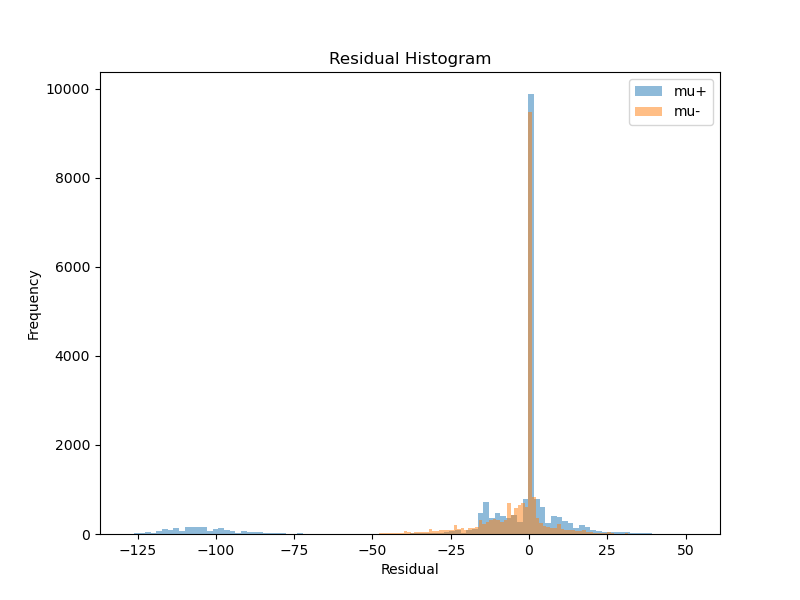
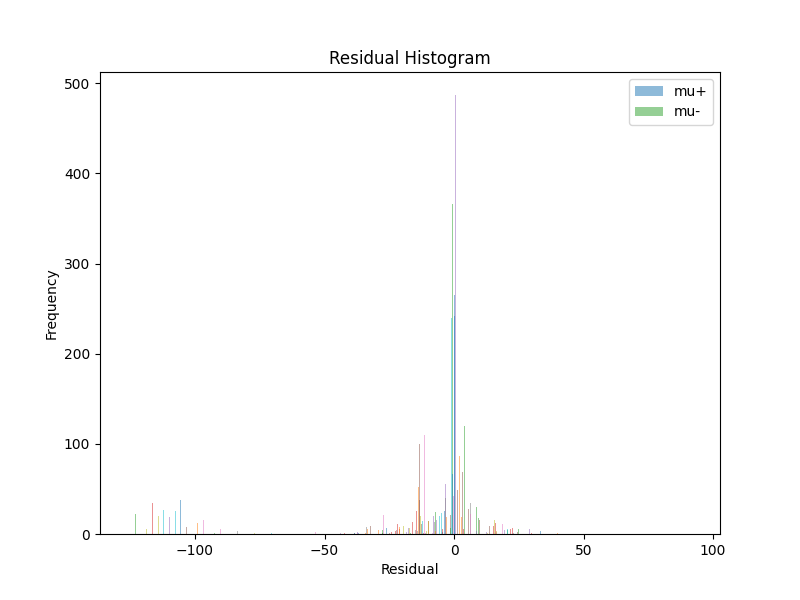
Fixed evaluate.py to print per slot residual

diff --git a/QTracker_prod/evaluate.py b/QTracker_prod/evaluate.py
@@ -25,11 +25,14 @@ def plot_res_histogram(model_path, y_true, y_pred):
     y_muPlus_pred = tf.cast(tf.argmax(tf.squeeze(y_muPlus_pred, axis=1), axis=-1), tf.float32)
     y_muMinus_pred = tf.cast(tf.argmax(tf.squeeze(y_muMinus_pred, axis=1), axis=-1), tf.float32)
 
-    res_plus = y_muPlus_pred - y_muPlus_true        # (num_events, num_detectors)
-    res_minus = y_muMinus_pred - y_muMinus_true
+    res_plus = (y_muPlus_pred - y_muPlus_true)       # (num_events, num_detectors)
+    res_minus = (y_muMinus_pred - y_muMinus_true)
 
-    res_plus = res_plus.numpy().flatten()
-    res_minus = res_minus.numpy().flatten()
+    res_plus = res_plus.numpy()
+    res_minus = res_minus.numpy()
+
+    all_res_plus = res_plus.flatten()
+    all_res_minus = res_minus.flatten()
 
     plt.figure(figsize=(8, 6))
     plt.hist(res_plus, bins=100, alpha=0.5, label='mu+')
@@ -44,9 +47,53 @@ def plot_res_histogram(model_path, y_true, y_pred):
     plt.savefig(plot_path)
     plt.show()
 
-    mean_plus, mean_minus = np.mean(res_plus), np.mean(res_minus)
-    std_plus, std_minus = np.std(res_plus), np.std(res_minus)
-    return mean_plus, mean_minus, std_plus, std_minus
+    num_layers = res_plus.shape[1]
+    per_slot_stats = []
+
+    for layer_idx in range(num_layers):
+        plus_residuals  = res_plus[:, layer_idx] 
+        minus_residuals = res_minus[:, layer_idx] 
+
+        mean_plus  = np.mean(plus_residuals)
+        std_plus   = np.std(plus_residuals)
+        mean_minus = np.mean(minus_residuals)
+        std_minus  = np.std(minus_residuals)
+
+        per_slot_stats.append((
+            layer_idx+1,    
+            mean_plus, std_plus,
+            mean_minus, std_minus
+        ))
+
+    print("\nPer-slot residual statistics:")
+    print(" layer |   μ⁺ mean   |  μ⁺ σ   |  μ- mean   |  μ- σ")
+    print("--------------------------------------------------")
+    for (layer, m_p, s_p, m_m, s_m) in per_slot_stats:
+        print(f" {layer:2d}   |   {m_p:+6.3f}  | {s_p:6.3f} |   {m_m:+6.3f}  | {s_m:6.3f}")
+
+    layers      = np.arange(1, num_layers+1)
+    mu_plus_means  = np.array([x[1] for x in per_slot_stats])
+    mu_plus_stds   = np.array([x[2] for x in per_slot_stats])
+    mu_minus_means = np.array([x[3] for x in per_slot_stats])
+    mu_minus_stds  = np.array([x[4] for x in per_slot_stats])
+
+    plt.figure(figsize=(10, 4))
+    plt.errorbar(layers, mu_plus_means,  yerr=mu_plus_stds,  fmt='o-', label='μ⁺ mean±σ',  capsize=2)
+    plt.errorbar(layers, mu_minus_means, yerr=mu_minus_stds, fmt='s-', label='μ- mean±σ', capsize=2)
+    plt.xlabel("Detector Layer (1 … 62)")
+    plt.ylabel("Residual (predicted − true)")
+    plt.title("Per-layer Residual: mean ± σ")
+    plt.axhline(0, color='black', lw=1, linestyle='--')
+    plt.legend()
+    plt.tight_layout()
+    plt.savefig(os.path.join(os.path.dirname(__file__), "plots", "per_layer_residuals.png"))
+    plt.show()
+
+    global_mean_plus  = np.mean(all_res_plus)  
+    global_std_plus   = np.std(all_res_plus)  
+    global_mean_minus = np.mean(all_res_minus) 
+    global_std_minus  = np.std(all_res_minus)  
+    return (global_mean_plus, global_std_plus, global_mean_minus, global_std_minus)
 
 
 def evaluate_model(root_file, model_path):
@@ -56,6 +103,7 @@ def evaluate_model(root_file, model_path):
         X, y_muPlus, y_muMinus = TrackFinder_attention.load_data(root_file)
     if X is None:
         return
+    
     y = np.stack([y_muPlus, y_muMinus], axis=1)  # Shape: (num_events, 2, 62)
     _, X_test, _, y_test = train_test_split(X, y, test_size=0.2, random_state=42)
 
@@ -63,6 +111,7 @@ def evaluate_model(root_file, model_path):
         "custom_loss": TrackFinder_prod.custom_loss, 
         "Adam": tf.keras.optimizers.legacy.Adam
     }
+
     if 'track_finder_cbam.keras' in model_path:
         custom_objects['ChannelAvgPool'] = ChannelAvgPool
         custom_objects['ChannelMaxPool'] = ChannelMaxPool
@@ -73,9 +122,9 @@ def evaluate_model(root_file, model_path):
         model = tf.keras.models.load_model(model_path)
 
     y_pred = model.predict(X_test)
-    mean_plus, mean_minus, std_plus, std_minus = plot_res_histogram(model_path, y_test, y_pred)
-    print(f'Mu+ Mean: {mean_plus:.3f}, Std Dev: {std_plus:.3f}')
-    print(f'Mu- Mean: {mean_minus:.3f}, Std Dev: {std_minus:.3f}')
+    gmp, gsp, gmm, gsm = plot_res_histogram(model_path, y_test, y_pred)
+    print(f"\nGlobal μ⁺: mean={gmp:.3f}, σ={gsp:.3f}")
+    print(f"Global μ-: mean={gmm:.3f}, σ={gsm:.3f}\n")
 
 
 if __name__ == '__main__':

diff --git a/QTracker_prod/Util/imass_plot.py b/QTracker_prod/Util/imass_plot.py
@@ -3,6 +3,8 @@ import numpy as np
 import matplotlib.pyplot as plt
 import argparse
 
+from ROOT import TLorentzVector
+
 def calculate_invariant_mass(tlv1, tlv2):
     """Computes the invariant mass of two particles using TLorentzVectors."""
     return (tlv1 + tlv2).M()
@@ -10,15 +12,34 @@ def calculate_invariant_mass(tlv1, tlv2):
 def extract_momenta_and_calculate_mass(root_file):
     """Extracts momenta from ROOT file and computes invariant mass using TLorentzVectors."""
     f = ROOT.TFile.Open(root_file, "READ")
+
+    if not f or f.IsZombie():
+        print("Error: could not open file", root_file)
+        return np.array([])
+
     tree = f.Get("tree")
 
     if not tree:
         print("Error: Tree not found in file.")
         return np.array([])
+    
+    n_entries = tree.GetEntries()
+    print(f"  → Found {n_entries} entries in 'tree' of {root_file}.\n")
 
     masses = []
+    saw_first = False
     
     for event in tree:
+        print("=== DEBUG: inspecting Event #0 ===")
+        print(" muID       =", list(event.muID))
+        print(" qpx        =", list(event.qpx))
+        print(" qpy        =", list(event.qpy))
+        print(" qpz        =", list(event.qpz))
+        print(" qpx shape? ", np.shape(event.qpx))
+        print(" node: tlv constructors ok? TLV.GetClassName() =", TLorentzVector().ClassName())
+        print("================================\n")
+        saw_first = True
+        
         tlv_mup = ROOT.TLorentzVector()
         tlv_mum = ROOT.TLorentzVector()
 
